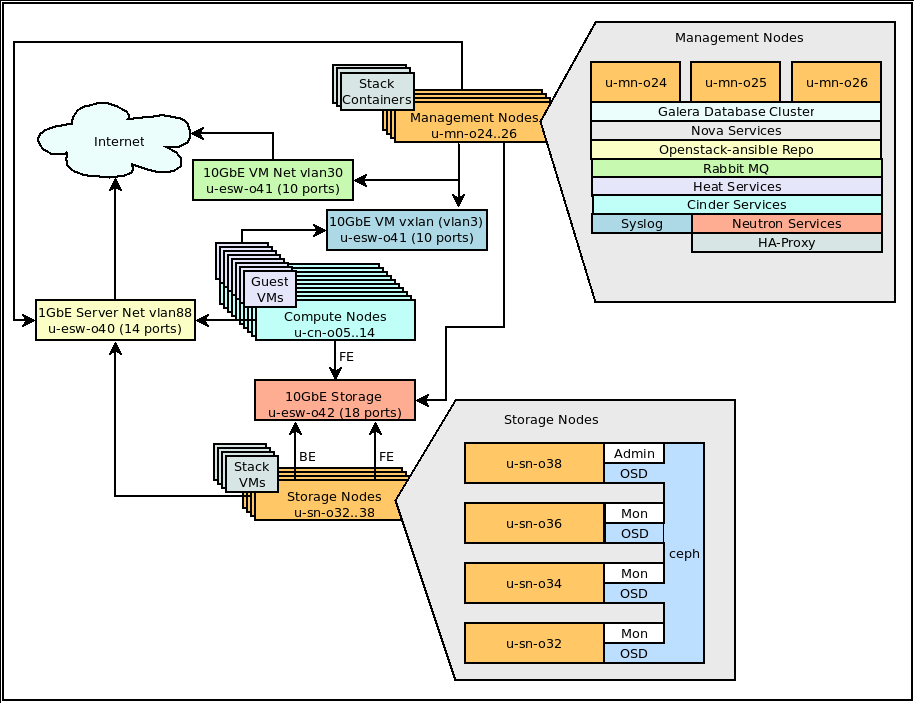
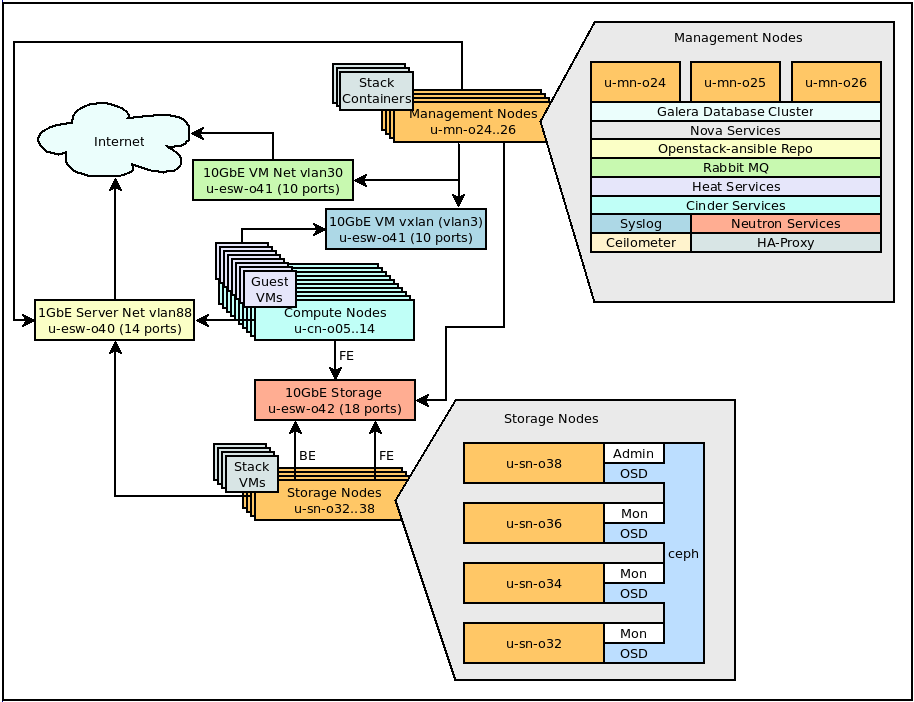
Added ceilometer to image

diff --git a/docs/config_hpc2n.md b/docs/config_hpc2n.md
@@ -4,6 +4,10 @@
 
 Openstack Ansible was used for the Openstack deployment at HPC2N.
 
+## System map
+
+![System map](img/ssc_hpc2n.png)
+
 ## Hardware setup
 
 ### Compute nodes x 10
@@ -30,9 +34,6 @@ Openstack Ansible was used for the Openstack deployment at HPC2N.
 
 
 Note*: Two storage nodes have 6 x 4T Disks, Two storage nodes have 5 x 4T Disks + 2 x 2T Disks. But the total amout of storage on the nodes are identical.
-
-## Openstack-Ansible
-
 
 ## Network
 
